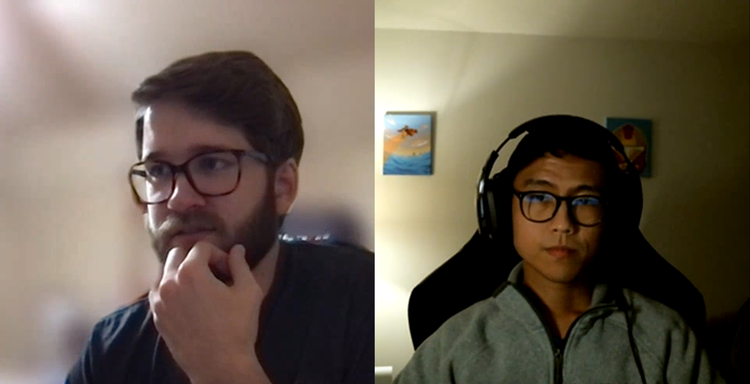
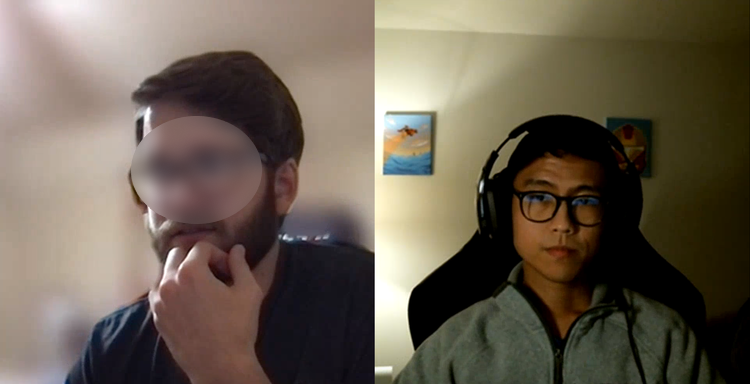
okay updated portfolio layout since i'm probably too lazy to add more also anonymized interviewee picture whoops

Changed region(s): [[0.1533, 0.2812, 0.368, 0.5938]]

diff --git a/index.html b/index.html
@@ -141,25 +141,29 @@
 
 <!-- Container (Portfolio Section) -->
 <div class="w3-content w3-container w3-padding-64 js-scroll" id="portfolio">
-  <h3 class="w3-center">RECENT UX PROJECTS</h3>
-  <!-- <p class="w3-center"><em>Recent projects.<br> Click on the images to make them bigger</em></p><br> -->
+  <h3 class="w3-center">SELECTED UX PROJECTS</h3>
+  <br>
 
   <!-- Responsive Grid. Four columns on tablets, laptops and desktops. Will stack on mobile devices/small screens (100% width) -->
   <div class="w3-row-padding w3-center">
-    <div class="w3-col m6">
-      <a href="portfolio/ixda_awards.html">
-        <img src="assets/ixda_logo.png" onclick="" class="w3-hover-opacity portfolio-icon" alt="IxDA Awards: Redesigning the webpage for the Interaction Design Awards">
-      </a>
-      <br>
+    <!-- <div class="w3-col m6"> -->
+    <a href="portfolio/ixda_awards.html">
+      <img src="assets/ixda_logo.png" onclick="" class="w3-hover-opacity portfolio-icon" alt="IxDA Awards: Redesigning the webpage for the Interaction Design Awards">
+    </a>
+  </div>
+  <br>
 
+  <div class="w3-row-padding w3-center">
+    <a href="portfolio/wa_notify.html">
+      <img src="assets/wa_notify.png" onclick="" class="w3-hover-opacity portfolio-icon" alt="Washington Notify: reporting positive COVID test results">
+    </a>
+  </div>
+  <br>
+
+  <div class="w3-row-padding w3-center">
+    <div class="w3-col m12">
       <a href="portfolio/tweetch.html">
         <img src="assets/tweetch_logo.png" onclick="" class="w3-hover-opacity portfolio-icon" alt="Tweetch: community in live streaming gaming">
-      </a>
-    </div>
-
-    <div class="w3-col m6">
-      <a href="portfolio/wa_notify.html">
-        <img src="assets/wa_notify.png" onclick="" class="w3-hover-opacity portfolio-icon" alt="Washington Notify: reporting positive COVID test results">
       </a>
     </div>
 
@@ -167,7 +171,7 @@
     
   </div>
 
-  <br><h5 class="text-center">More to come!</h5>
+  <!-- <br><h5 class="text-center">More to come!</h5> -->
 
   <div class="w3-content w3-container w3-padding-64 center-text js-scroll">
     <a href="assets/tonywli_cv.pdf" class="btn btn-lg btn-light theme-btn" role="button" download>
